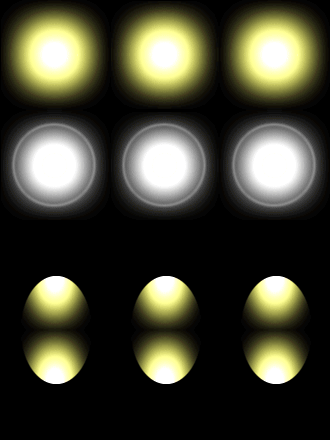
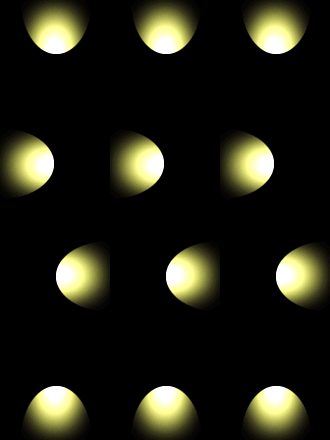
Improve lighting operations and sprites.

diff --git a/Scripts/FA Interactive System 2.rb b/Scripts/FA Interactive System 2.rb
@@ -77,7 +77,7 @@
 # interact with bombs like creating a bomb arrow at real time
 #
 # The dynamic light effects allow you to create real lights on event tagged
-# you can set intencity, direction and do a lot of things.
+# you can set intensity, direction and do a lot of things.
 #
 # The dynamic drop allow you to create events to drop items jus by tagging
 # a simple comman.
@@ -393,6 +393,8 @@ module FalInt
   
   # Tone that is defined as normal in your game ( it s the default game tone)
   GameNormalTone = Tone.new(0, 0, 0, 0)
+
+  CustomTone = Tone.new(-60, -60, -60, 10)
   
 #-------------------------------------------------------------------------------
 # * Interactive tool Blade
@@ -476,6 +478,7 @@ module FalInt
   
   # Ligh effects graphic
   LightsGraphic = "$Light_effects"
+  StaticLightsGraph = "$LightFixed_effects"
   
 # Light Effects Actions, write the followings lines on event comment tag 
 # 
@@ -484,7 +487,7 @@ module FalInt
 #                            2 = Down, 4 = LEFT, 6 = RIGHT, 8 = UP
 #                            ex: LIGHT EFFECT DIRECTION = 2
 #
-# LIGHT EFFECT INTENCITY     Put the intencity number you want the light to have
+# LIGHT EFFECT INTENCITY     Put the intensity number you want the light to have
 #                            there are five levels only: choose a value from 
 #                            1 to 5 ex: LIGHT EFFECT INTENCITY 1
 #
@@ -659,6 +662,7 @@ class Spriteset_Map
     case    play.intreserved_tone[0]
     when 1; $game_map.screen.start_tone_change(Tone.new(-130, -130, -130, 10),0)
     when 2; $game_map.screen.start_tone_change(FalInt::GameNormalTone, 0)
+    when 3; $game_map.screen.start_tone_change(FalInt::CustomTone, 0)
     end 
     play.intreserved_tone[1] = $game_map.map_id if play.intreserved_tone[0] != 0
     play.intreserved_tone[1] = nil if play.intreserved_tone[0] == 2
@@ -873,14 +877,14 @@ class Spriteset_Map
     @lighesprites.each {|sprite| sprite.update }
   end
   
-  # ligh effecs creation
+  # light effecs creation
   def create_light_effects
     for event in $game_map.events.values
       direction = event.check_var("LIGHT EFFECT DIRECTION")
       if direction != 0
-        intencity = event.check_var("LIGHT EFFECT INTENCITY")
+        intensity = event.check_var("LIGHT EFFECT INTENCITY")
         @lighesprites.push(Sprite_LightEffec.new(@viewport1, 
-        event, direction, intencity == 0 ? 1 : intencity))
+        event, direction, intensity == 0 ? 1 : intensity))
       end
     end
   end
@@ -919,10 +923,15 @@ end
 
 # Ligh effects sprites
 class Sprite_LightEffec < Sprite
-  def initialize(viewport, character, direction=2, intencity=1)
+  def initialize(viewport, character, direction=2, intensity=1)
     super(viewport)
     @character = character
-    @character_name = FalInt::LightsGraphic
+    if(direction%2 == 0)
+      @character_name = FalInt::LightsGraphic
+    else
+      @character_name = FalInt::StaticLightsGraph
+      direction += 1
+    end
     @direction = direction
     self.blend_type = 1
     self.z = 2 * 100
@@ -930,21 +939,21 @@ class Sprite_LightEffec < Sprite
     self.wave_amp = 3
     self.wave_length = 240
     self.wave_speed = 320
-    setup_intencity(intencity)
+    setup_intensity(intensity)
     update
   end
   
-  def setup_intencity(intencity)
-    case intencity
-    when 1 ; @intencity = [zx = 1,   zy = 1,   sx = 0, sy = 0,   opa = 42]
-    when 2 ; @intencity = [zx = 1.5, zy = 1.5, sx = 0, sy = 30,  opa = 42]
-    when 3 ; @intencity = [zx = 2,   zy = 2,   sx = 0, sy = 60,  opa = 42]
-    when 4 ; @intencity = [zx = 2.5, zy = 2.5, sx = 0, sy = 90,  opa = 42]
-    when 5 ; @intencity = [zx = 3,   zy = 3,   sx = 0, sy = 120, opa = 42]
+  def setup_intensity(intensity)
+    case intensity
+    when 1 ; @intensity = [zx = 1,   zy = 1,   sx = 0, sy = 0,   opa = 70]
+    when 2 ; @intensity = [zx = 1.5, zy = 1.5, sx = 0, sy = 30,  opa = 70]
+    when 3 ; @intensity = [zx = 2,   zy = 2,   sx = 0, sy = 60,  opa = 70]
+    when 4 ; @intensity = [zx = 2.5, zy = 2.5, sx = 0, sy = 90,  opa = 70]
+    when 5 ; @intensity = [zx = 3,   zy = 3,   sx = 0, sy = 120, opa = 70]
     end
-    self.zoom_x  = @intencity[0]
-    self.zoom_y  = @intencity[1]
-    self.opacity = @intencity[4]
+    self.zoom_x  = @intensity[0]
+    self.zoom_y  = @intensity[1]
+    self.opacity = @intensity[4]
   end
   
   def set_character_bitmap
@@ -963,11 +972,11 @@ class Sprite_LightEffec < Sprite
   
   def update_position
     if @character.picked
-      self.x = $game_player.screen_x + @intencity[2]
-      self.y = $game_player.screen_y + @intencity[3]
+      self.x = $game_player.screen_x + @intensity[2]
+      self.y = $game_player.screen_y + @intensity[3]
     else
-      self.x = @character.screen_x      + @intencity[2]
-      self.y = @character.screen_y + 22 + @intencity[3]
+      self.x = @character.screen_x      + @intensity[2]
+      self.y = @character.screen_y + 22 + @intensity[3]
     end
     if @character.is_a?(Game_Event)
       active = @character.check_com("LIGHT EFFECT REQUIRE FLAME")
@@ -2333,6 +2342,11 @@ class Game_Player < Game_Character
   
   def dark_nextmap
     @intreserved_tone[0] = 1
+  end
+
+  def tone_nextmap (r, g, b, gray)
+    CustomTone.set(r, g, b, gray)
+    @intreserved_tone[0] = 3
   end
   
   def normal_nextmap

diff --git a/Scripts/Tanketai Sideview Battle System/SideView- Action Setup.rb b/Scripts/Tanketai Sideview Battle System/SideView- Action Setup.rb
@@ -19,7 +19,7 @@ module N03
   # Actor Initial Start Position
   # 　                       1st          2nd          3rd          4th
   #                     X   Y   H    X   Y   H    X   Y   H    X   Y   H
-  ACTOR_POSITION = [[390, 250, 0], [430, 210, 0], [450, 280, 0], [480, 240, 0]]
+  ACTOR_POSITION = [[380, 250, 0], [440, 215, 0], [420, 300, 0], [475, 260, 0]]
   # Wait time after the end of each action in frames
   ACTION_END_WAIT = 20
   # Wait time after the end of each turn in frames
